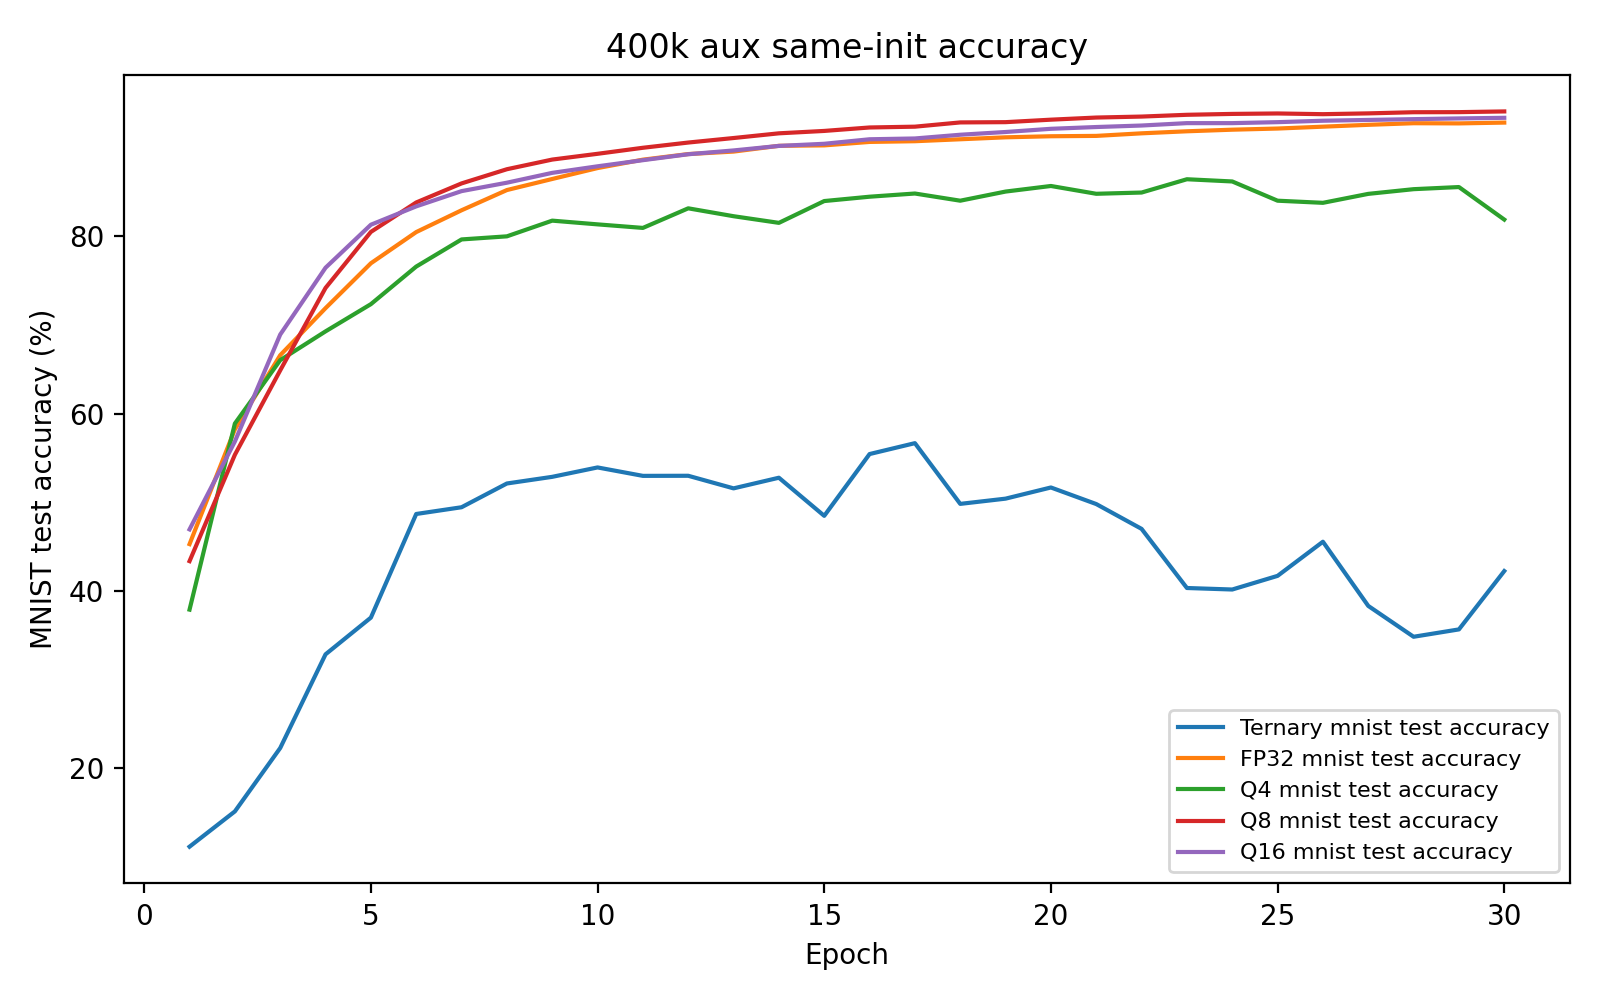
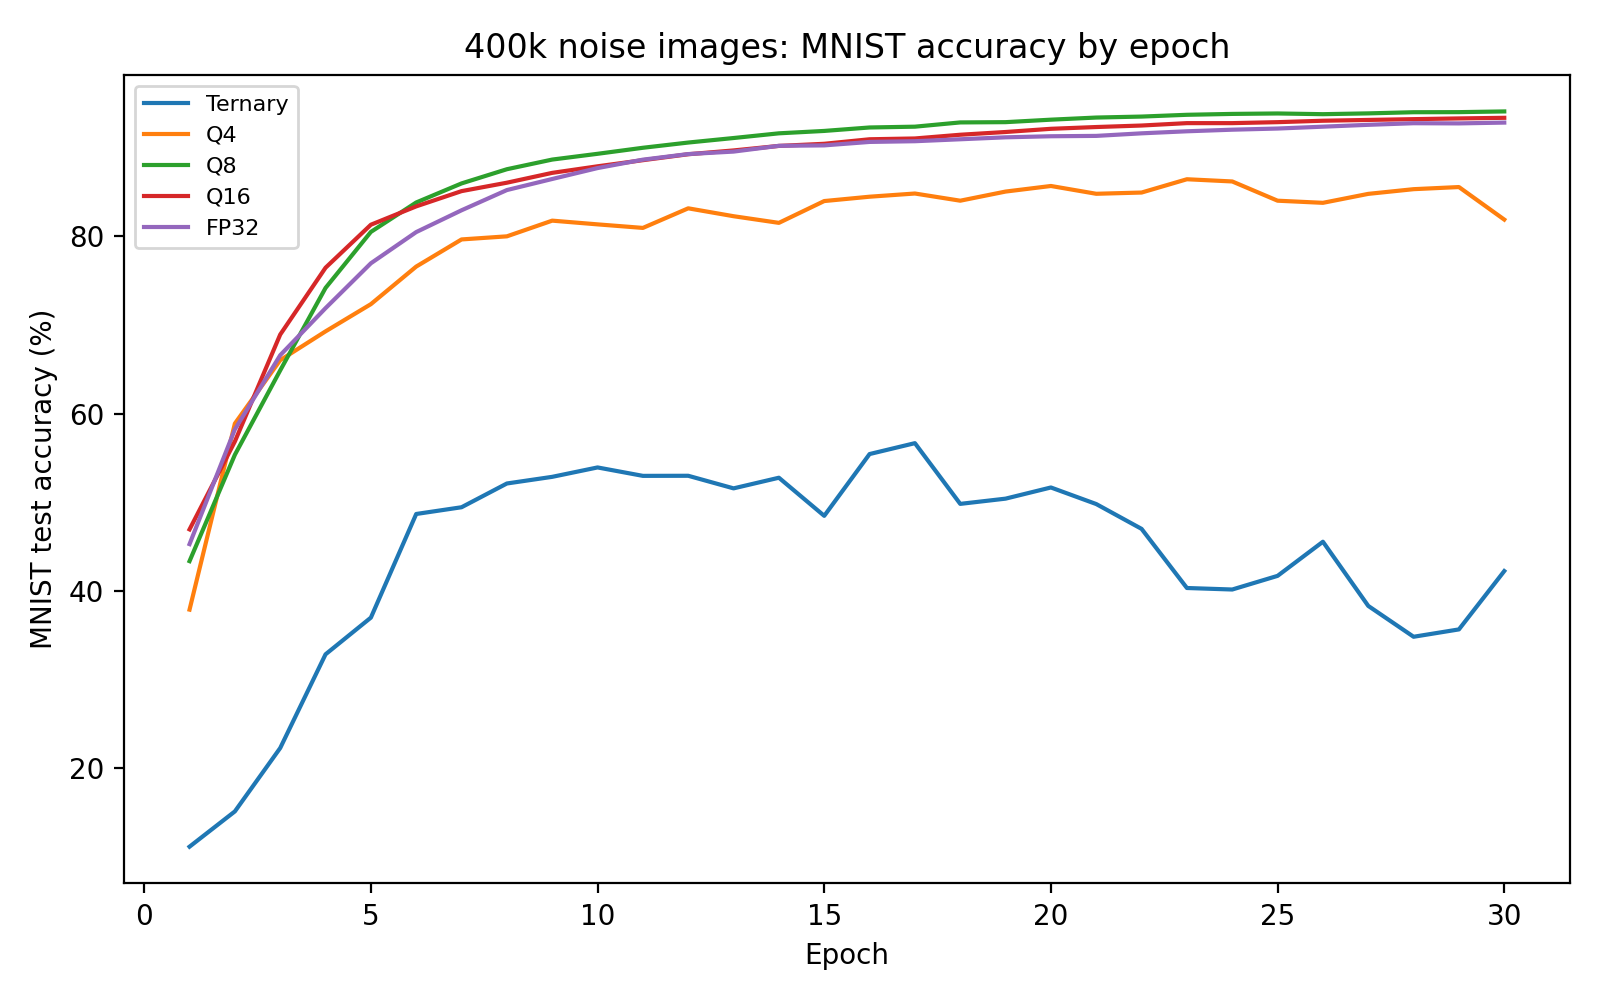
Clarify continuation plot labels
Update generated documentation plots and their source labels for clearer experiment terminology.

diff --git a/scripts/plot_precision_comparison.py b/scripts/plot_precision_comparison.py
@@ -126,7 +126,7 @@ def main() -> None:
     save_plot(args.output_dir / "dataset_size_sweep.png")
 
     for filename, fields, ylabel, title in (
-        ("accuracy_curve_400k_aux_same.png", ("mnist_test_accuracy",), "MNIST test accuracy (%)", "400k aux same-init accuracy"),
+        ("accuracy_curve_400k_aux_same.png", ("mnist_test_accuracy",), "MNIST test accuracy (%)", "400k noise images: MNIST accuracy by epoch"),
         ("loss_curves_400k_aux_same.png", ("train_distill_loss", "val_distill_loss"), "KL loss", "400k aux same-init distillation loss"),
     ):
         plt.figure(figsize=(8, 5))
@@ -137,7 +137,7 @@ def main() -> None:
                 plt.plot([int(r["epoch"]) for r in history],
                          [multiplier * float(r[field]) for r in history],
                          color=f"C{index}", linestyle="-" if field_index == 0 else "--",
-                         label=f"{label} {field.replace('_', ' ')}")
+                         label=label if filename == "accuracy_curve_400k_aux_same.png" else f"{label} {field.replace('_', ' ')}")
         plt.xlabel("Epoch")
         plt.ylabel(ylabel)
         plt.title(title)
@@ -153,7 +153,7 @@ def main() -> None:
                              and r["init"] == init) for target, init in categories]
         plt.bar([position - 0.4 + width * (index + 0.5) for position in range(len(categories))],
                 values, width=width, label=label)
-    plt.xticks(range(len(categories)), [f"{target}\n{init}" for target, init in categories])
+    plt.xticks(range(len(categories)), [f"{target}-logits\n{init}-init" for target, init in categories])
     plt.ylabel("Best MNIST test accuracy (%)")
     plt.title("200k target and initialization sweep")
     plt.legend(ncol=min(5, len(labels)), loc="upper center", bbox_to_anchor=(0.5, -0.12))
@@ -161,7 +161,7 @@ def main() -> None:
 
     if not args.skip_stress:
         for filename, fields, ylabel, title in (
-            ("plateau_best_accuracy_lr.png", ("mnist_test_accuracy",), "MNIST test accuracy (%)", "Plateau-best stress accuracy and LR"),
+            ("plateau_best_accuracy_lr.png", ("mnist_test_accuracy",), "MNIST test accuracy (%)", "Extended training: MNIST accuracy and learning rate"),
             ("plateau_best_loss_lr.png", ("train_distill_loss", "val_distill_loss"), "KL loss", "Plateau-best stress loss and LR"),
         ):
             fig, (ax, lr_ax) = plt.subplots(2, 1, sharex=True, figsize=(9, 7),
